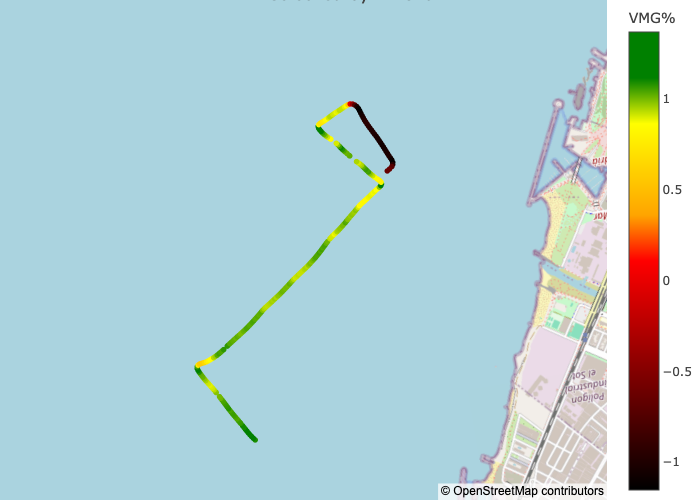
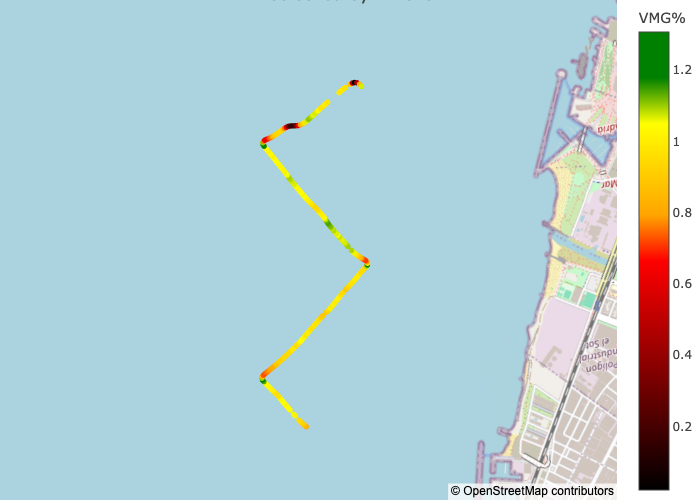
adding the start map

diff --git a/pdf_creator.py b/pdf_creator.py
@@ -14,7 +14,8 @@ from PIL import Image
 from io import BytesIO
 import streamlit as st
 import matplotlib.pyplot as plt
-
+from race_stats_creator import fetch_latest_marks
+import plotly.graph_objects as go
 import os
 
 
@@ -35,30 +36,40 @@ def create_pdf(title, images, pdf_buffer):
     c.setFont("Helvetica-Bold", 18)
     c.drawString(margin, height - 2 * margin, "Recap Table")
 
+    # Calculate positions and sizes for images
+    image_scale_factor = 2  # Scale images down by a factor of 2
+
     # Main Image (table)
     main_image = ImageReader(images[0])
     main_image_width, main_image_height = main_image.getSize()
-    main_image_width /= 2
-    main_image_height /= 2
-    c.drawImage(images[0], (width - main_image_width) / 2.0, height - 3 * margin - main_image_height, 
-                width=main_image_width, height=main_image_height)
+    main_image_width /= image_scale_factor
+    main_image_height /= image_scale_factor
 
     # Start Image (table)
     start_image = ImageReader(images[1])
     start_image_width, start_image_height = start_image.getSize()
-    start_image_width /= 2
-    start_image_height /= 2
-    c.drawImage(images[1], (width - start_image_width) / 2.0, height - 4 * margin - start_image_height - start_image_height, 
+    start_image_width /= image_scale_factor
+    start_image_height /= image_scale_factor
+
+    # Start Track Image (table)
+    start_track = ImageReader(images[2])
+    start_track_width, start_track_height = start_track.getSize()
+    start_track_width /= image_scale_factor/1.5
+    start_track_height /= image_scale_factor/1.5
+
+    # Draw Main Image
+    c.drawImage(images[0], (width - main_image_width) / 2.0, 
+                height - 3 * margin - main_image_height, 
+                width=main_image_width, height=main_image_height)
+
+    # Draw Start Image
+    c.drawImage(images[1], (width - start_image_width) / 2.0, 
+                height - 3 * margin - main_image_height - separation - start_image_height, 
                 width=start_image_width, height=start_image_height)
 
-    # New page for Leg1 and Leg2 images
-
-    # Start Image (table)
-    start_track = ImageReader(images[1])
-    start_track_width, start_image_height = start_image.getSize()
-    start_track_width /= 2
-    start_track_height /= 2
-    c.drawImage(images[10], (width - start_track_width) / 2.0, height - 4 * margin - start_track_height - start_track_height, 
+    # Draw Start Track Image
+    c.drawImage(images[10], (width - start_track_width) / 2.0, 
+                height - 3 * margin - main_image_height - separation - start_image_height - separation - start_track_height, 
                 width=start_track_width, height=start_track_height)
 
     c.showPage()
@@ -159,7 +170,7 @@ def create_start_png(data):
         (0.5, "red"),   # 22k is approximately 40% of the way to the max
         (.6, "orange"),  # 26k is approximately 60% of the way to the max
         (.8, "yellow"),
-        (.9, "green"),
+        (.85, "green"),
         (1, "green")# 30k is approximately 80% of the way to the m     # 38k and above -> red
     ]
     
@@ -171,9 +182,8 @@ def create_start_png(data):
     # Add two marks and a line between them
     # Replace index1 and index2 with the actual indices of the points
     index1, index2 = 0, 1  # Example indices
-    lat1, lon1 = data.loc[index1, 'Latitude'], data.loc[index1, 'Longitude']
-    lat2, lon2 = data.loc[index2, 'Latitude'], data.loc[index2, 'Longitude']
-    
+    lat1, lon1 = rc
+    lat2, lon2 = pin
     fig.add_trace(go.Scattermapbox(
         lat=[rc[0], pin[0]],
         lon=[rc[1], pin[1]],
@@ -182,20 +192,15 @@ def create_start_png(data):
         line=dict(width=2, color='blue'),
         name="Start Line"
     ))
-    
-    # Add text annotations every 10 seconds
-    for i, row in data.iterrows():
-        if i % 10 == 0:  # Assuming the rows are ordered by time and the interval is consistent
-            fig.add_trace(go.Scattermapbox(
-                lat=[row['Latitude']],
-                lon=[row['Longitude']],
-                mode='text',
-                text=[f"BSP: {row['BSP']}"],
-                textposition="top right",
-                showlegend=False
-            ))
-    
-    fig.update_layout(mapbox_style="open-street-map")
+   
+    fig.update_layout(
+    mapbox=dict(
+        style="open-street-map",
+        bearing=data.TWD.mean(),
+        zoom=15   # Set the map rotation angle
+    ),
+    margin={"r": 0, "t": 0, "l": 0, "b": 0}
+    )
     fig.update_layout(margin={"r": 0, "t": 0, "l": 0, "b": 0})
     fig.write_image("png_race/pre_start.png")
 
@@ -301,7 +306,7 @@ def create_legs_track_png_leg(race, marks):
 
 def pdf_race_recap_creator(race, pre_start, marks, pdf_buffer):
     now = datetime.now()
-    create_start_png(data)
+    create_start_png(pre_start)
     # format it as a string in the desired format
     timestamp_string = now.strftime('%Y-%m-%dT%H:%M:%S')
     name = f"race_{timestamp_string}" #[name for name, var in globals().items() if var is race][0]

diff --git a/main.py b/main.py
@@ -80,7 +80,7 @@ if st.button('Finish line'):
             
             st.write(marks)
             date: str = st.session_state['timestamp1'].strftime('%Y-%m-%d')
-            fromTime_: str = (st.session_state['timestamp1'] - timedelta(seconds=90)).replace(tzinfo=None)
+            fromTime_: str = (st.session_state['timestamp1'] - timedelta(seconds=90)).replace(tzinfo=None).strftime('%H:%M:%S')
             toTime_: str = st.session_state['timestamp5'].strftime('%H:%M:%S')
             whereTags_ = {"boat": "AC40"}
             # Convert timestamps to string format required by InfluxDB
@@ -96,7 +96,8 @@ if st.button('Finish line'):
             # st.write(len(race))
             race = data[data.Datetime>=st.session_state['timestamp1']]
             pre_start = data[data.Datetime<=st.session_state['timestamp1']]
-            file_path = pdf_race_recap_creator(race, marks,'race stats')
+            #
+            # file_path = pdf_race_recap_creator(race,pre_start, marks,'race stats')
 
             title = "test_pdf"
             pdf_buffer = BytesIO()
